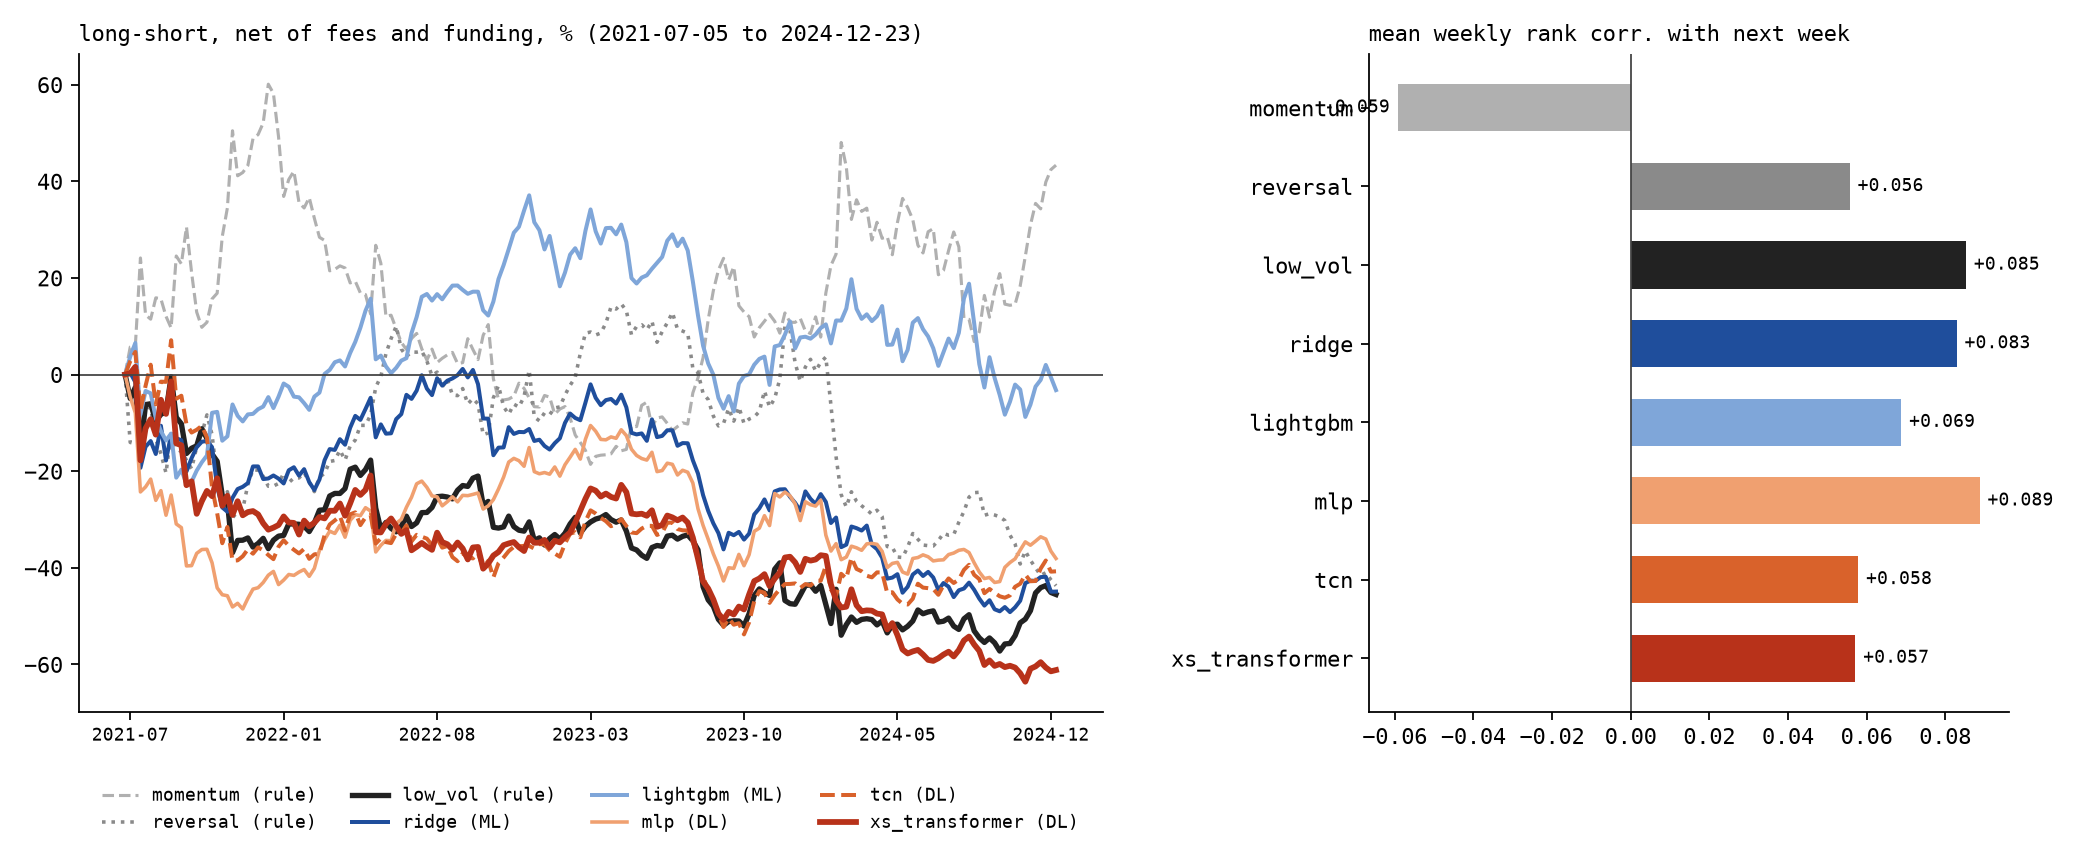
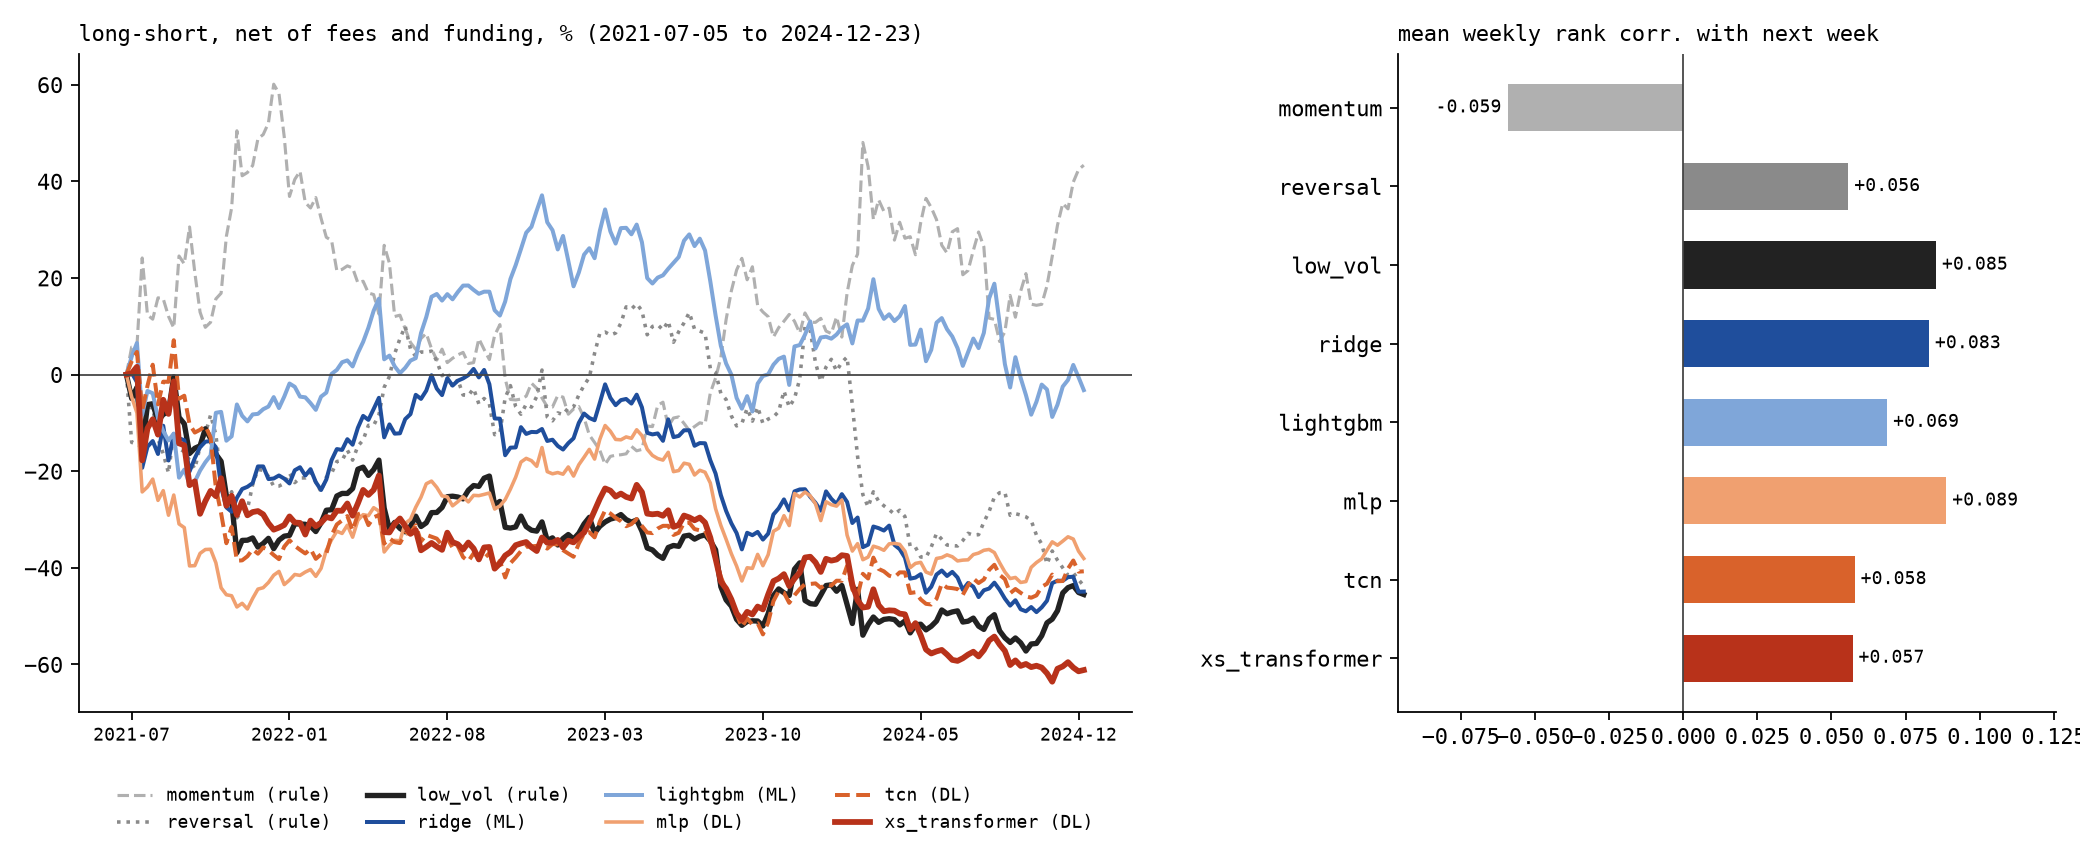
xs_weekly and xs_weekly_net: results sections, reports and figures of the held-out read, and the findings entry

diff --git a/experiments/xs_weekly_report.py b/experiments/xs_weekly_report.py
@@ -54,6 +54,7 @@ def figure(r: dict[str, Any], path: Path) -> None:
         right.text(v + (0.002 if v >= 0 else -0.002), yi, f"{v:+.3f}", va="center",
                    ha="left" if v >= 0 else "right", fontsize=8)  # fmt: skip
     right.axvline(0, color="#444444", lw=0.8)
+    right.margins(x=0.25)
     right.set_yticks(y, names)
     right.set_title("mean weekly rank corr. with next week", loc="left", fontsize=10)
     for ax in (left, right):

diff --git a/experiments/results/xs_weekly_net_heldout/README.md b/experiments/results/xs_weekly_net_heldout/README.md
@@ -1,0 +1,40 @@
+# ML and DL ranking a hundred perpetuals a week: 2025-01-06 to 2026-10-19
+
+Written by `experiments/xs_weekly_report.py` from `result.json`
+([registration](../../../docs/preregistration/xs_weekly_net_2026_11.md)). Every Monday each ranker
+goes long its ten highest-ranked and short its ten lowest of the hundred most traded Binance
+USDT perpetuals (about 100 on average), half the account a side, at taker fees
+with funding. **Held-out weeks, read once.**
+
+![equity and rank correlation](figure.png)
+
+| model | N1, pays | Holm *p* | N2, beats `momentum` | Holm *p* |
+|---|---|--:|---|--:|
+| `ridge` | **killed** | 0.515 | **killed** | 1.000 |
+| `lightgbm` | **killed** | 0.235 | **killed** | 1.000 |
+| `mlp` | **killed** | 0.235 | **killed** | 1.000 |
+| `tcn` | **killed** | 0.515 | **killed** | 1.000 |
+| `xs_transformer` | **killed** | 0.515 | **killed** | 1.000 |
+
+| ranker | kind | total % | a year % | Sharpe | worst drawdown % | price % | funding % | cost % | rank corr. | turnover | weekly *t* |
+|---|---|--:|--:|--:|--:|--:|--:|--:|--:|--:|--:|
+| `momentum` | rule | +154.2 | +67.5 | 1.21 | -35.3 | +55.3 | +68.9 | -6.4 | -0.029 | 97% | +1.62 |
+| `low_vol` | rule | -9.8 | -5.6 | 0.15 | -56.2 | +89.6 | -72.2 | -4.0 | +0.140 | 61% | +0.20 |
+| `funding` | rule | -9.9 | -5.6 | 0.17 | -56.5 | -134.7 | +155.0 | -3.9 | -0.003 | 59% | +0.22 |
+| `ridge` | ML | +41.6 | +21.2 | 0.66 | -44.7 | +109.2 | -43.6 | -8.0 | +0.140 | 122% | +0.88 |
+| `lightgbm` | ML | +122.0 | +55.4 | 1.26 | -40.9 | +113.5 | -8.5 | -9.1 | +0.102 | 138% | +1.69 |
+| `mlp` | DL | +134.0 | +60.0 | 1.26 | -47.0 | +140.8 | -27.2 | -9.6 | +0.098 | 146% | +1.69 |
+| `tcn` | DL | +38.3 | +19.7 | 0.66 | -41.7 | +70.2 | -13.6 | -10.0 | +0.121 | 151% | +0.89 |
+| `xs_transformer` | DL | +46.7 | +23.6 | 0.71 | -48.2 | +76.7 | -11.9 | -9.8 | +0.134 | 149% | +0.95 |
+
+94 weeks. Price, funding and cost are summed weekly contributions to the account.
+
+| model | weekly net minus `momentum`'s, % | *t* |
+|---|--:|--:|
+| `ridge` | -0.642 | -0.55 |
+| `lightgbm` | -0.234 | -0.23 |
+| `mlp` | -0.147 | -0.14 |
+| `tcn` | -0.757 | -0.72 |
+| `xs_transformer` | -0.668 | -0.60 |
+
+- **Highest total: `momentum`**, +154.2%.

diff --git a/experiments/results/xs_weekly_heldout/README.md b/experiments/results/xs_weekly_heldout/README.md
@@ -1,0 +1,40 @@
+# ML and DL ranking a hundred perpetuals a week: 2025-01-06 to 2026-10-19
+
+Written by `experiments/xs_weekly_report.py` from `result.json`
+([registration](../../../docs/preregistration/xs_weekly_2026_11.md)). Every Monday each ranker
+goes long its ten highest-ranked and short its ten lowest of the hundred most traded Binance
+USDT perpetuals (about 100 on average), half the account a side, at taker fees
+with funding. **Held-out weeks, read once.**
+
+![equity and rank correlation](figure.png)
+
+| model | W1, pays | Holm *p* | W2, beats `low_vol` | Holm *p* |
+|---|---|--:|---|--:|
+| `ridge` | **killed** | 0.931 | **killed** | 0.997 |
+| `lightgbm` | **killed** | 1.000 | **killed** | 1.000 |
+| `mlp` | **killed** | 0.745 | **killed** | 0.593 |
+| `tcn` | **killed** | 1.000 | **killed** | 1.000 |
+| `xs_transformer` | **killed** | 1.000 | **killed** | 1.000 |
+
+| ranker | kind | total % | a year % | Sharpe | worst drawdown % | price % | funding % | cost % | rank corr. | turnover | weekly *t* |
+|---|---|--:|--:|--:|--:|--:|--:|--:|--:|--:|--:|
+| `momentum` | rule | +154.2 | +67.5 | 1.21 | -35.3 | +55.3 | +68.9 | -6.4 | -0.043 | 97% | +1.62 |
+| `reversal` | rule | -78.8 | -57.6 | -1.44 | -78.9 | -92.6 | -26.3 | -11.0 | +0.015 | 167% | -1.94 |
+| `low_vol` | rule | -9.8 | -5.6 | 0.15 | -56.2 | +89.6 | -72.2 | -4.0 | +0.165 | 61% | +0.20 |
+| `ridge` | ML | +27.9 | +14.6 | 0.54 | -52.4 | +170.2 | -116.1 | -8.0 | +0.174 | 121% | +0.73 |
+| `lightgbm` | ML | +3.3 | +1.8 | 0.30 | -43.2 | +132.4 | -97.4 | -8.6 | +0.148 | 130% | +0.41 |
+| `mlp` | DL | +60.1 | +29.7 | 0.78 | -53.2 | +195.2 | -114.0 | -9.0 | +0.149 | 136% | +1.05 |
+| `tcn` | DL | -52.4 | -33.7 | -0.64 | -70.3 | +93.5 | -137.5 | -9.5 | +0.159 | 145% | -0.87 |
+| `xs_transformer` | DL | -8.6 | -4.8 | 0.15 | -57.9 | +163.1 | -140.6 | -9.5 | +0.169 | 144% | +0.20 |
+
+94 weeks. Price, funding and cost are summed weekly contributions to the account.
+
+| model | weekly net minus `low_vol`'s, % | *t* |
+|---|--:|--:|
+| `ridge` | +0.349 | +0.68 |
+| `lightgbm` | +0.138 | +0.26 |
+| `mlp` | +0.626 | +1.19 |
+| `tcn` | -0.712 | -1.17 |
+| `xs_transformer` | -0.004 | -0.01 |
+
+- **Highest total: `momentum`**, +154.2%.

diff --git a/docs/preregistration/xs_weekly_2026_11.md b/docs/preregistration/xs_weekly_2026_11.md
@@ -143,3 +143,28 @@ modules among them; `fetch-heldout` and `read` refuse if any differs, and each s
 written once. H's last decision with a next Monday in the archives is 19 October 2026: the
 monthly archive for November 2026 is not published, so the week from 26 October has no outcome
 and is skipped, as on D.
+
+## Results, read once 20 November 2026
+
+From the frozen code, by `experiments/xs_weekly.py read --study gross`, after the freeze above was
+committed; the result is [`experiments/results/xs_weekly_heldout/`](../../experiments/results/xs_weekly_heldout/README.md)
+(`result.json`). H: 94 weeks, 6 January 2025 to 19 October 2026.
+
+**W1: killed for all five.** Mean weekly net return: `mlp` +0.63% a week (*t* +1.05, Holm *p*
+0.75), `ridge` *t* +0.73, `lightgbm` +0.41, `xs_transformer` +0.20, `tcn` −0.87; every Holm *p*
+above 0.7.
+
+**W2: killed for all five.** Weekly net minus `low_vol`'s: *t* −1.17 (`tcn`) to +1.19 (`mlp`,
+Holm *p* 0.59).
+
+Beside, with no status. Totals: `momentum` +154.2% (Sharpe 1.21, worst drawdown −35%), `mlp`
++60.1%, `ridge` +27.9%, `lightgbm` +3.3%, `xs_transformer` −8.6%, `low_vol` −9.8%, `tcn` −52.4%,
+`reversal` −78.8%. The models ranked the coins better than on D (rank correlation +0.148 to
++0.174, against +0.056 to +0.089) and their price result was large (+93% to +195%), but the short
+side paid the volatile coins' negative funding again (−97% to −141% of the account). Every model
+lost from January 2025 to June 2026 (−26% to −70%) and made all its total in the sixteen weeks
+from July 2026 (+58% to +116%). `momentum` made +256% before July 2026 and −29% after, and +18%
+without its three best weeks (+34%, +28%, +26%).
+
+Against the expectation stated in advance: W1 killed, though the tree models were expected the
+likeliest to pass; W2 killed, as expected.

diff --git a/docs/findings.md b/docs/findings.md
@@ -209,6 +209,23 @@ development months, 2022 to mid-2025. Funding is persistent enough that its
 three-month mean is the forecast to beat, and a model fitted on a few hundred
 coin-months changes coin more often and pays for it.
 
+### Machine learning and deep learning ranking a hundred perpetuals a week (W1, W2, N1, N2)
+
+**Status: killed, read once 20 November 2026** ([registration](preregistration/xs_weekly_2026_11.md),
+[successor](preregistration/xs_weekly_net_2026_11.md)). Ridge, LightGBM, an MLP, a TCN and a
+cross-sectional transformer rank the hundred most traded Binance USDT perpetuals (delisted ones
+kept) every Monday; long the top ten, short the bottom ten, at taker fees with funding. Fitted on
+the week's return, the short side paid the volatile coins' negative funding and every model lost
+on 2021 to 2024; fitted on the return net of funding (the successor, registered after that
+measurement), they still lost there, and a cross-sectional funding rule made +90%. On January 2025
+to October 2026, 94 weeks no study had read: no model's weekly return was significantly positive
+(W1, N1: best Holm *p* 0.235) or above the rule it was compared with (W2, N2). The net-target
+models all ended positive (+38% to +134%; `lightgbm` and `mlp` Sharpe 1.26), but all of it came in
+the last sixteen weeks: from January 2025 to June 2026 every one was flat or lost. The funding
+rule lost (−9.9%); 28-day momentum made +154%, almost all before July 2026 and from three weeks.
+The models rank the coins (rank correlation +0.10 to +0.17 on H); what they rank is not yet a
+reliable trade at these costs.
+
 ### Pairs trading on fifteen real perpetuals
 
 **Status: killed** ([registration and results](preregistration/pairs_search_2026_11.md)).
